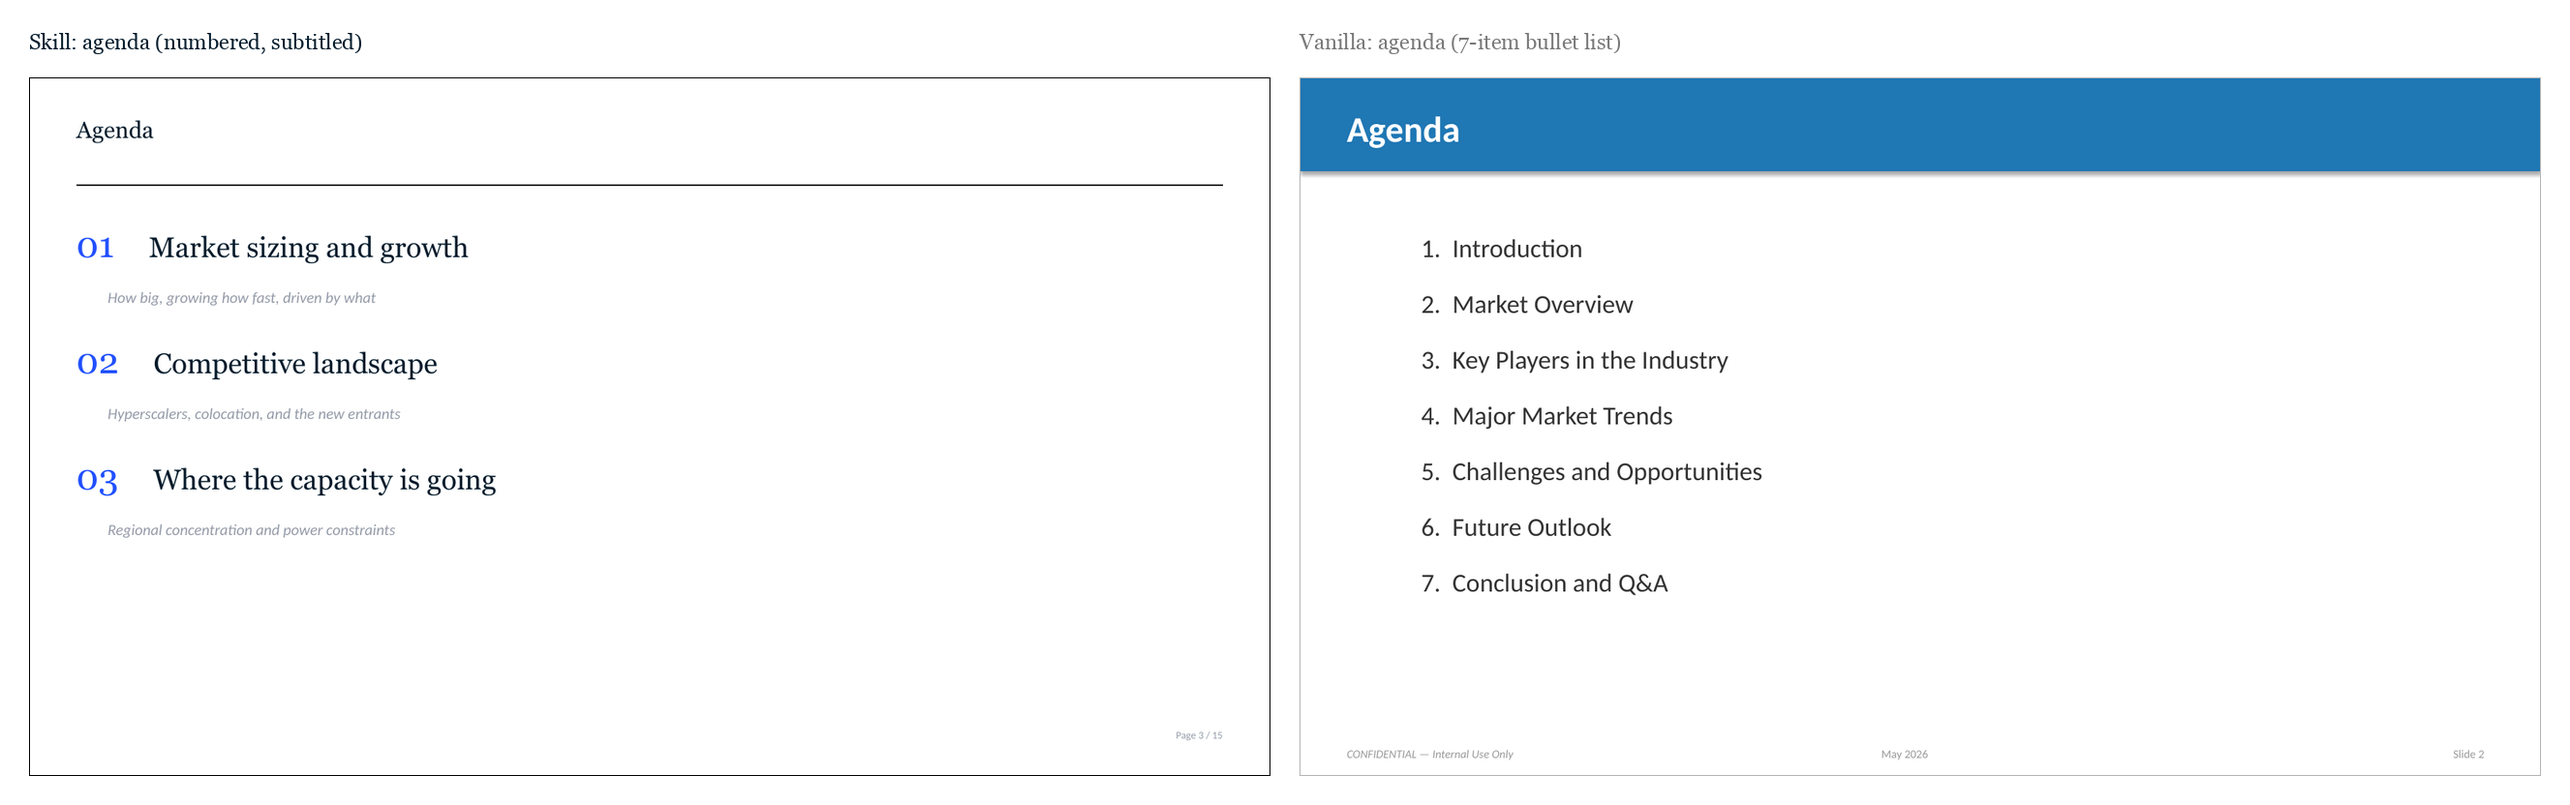
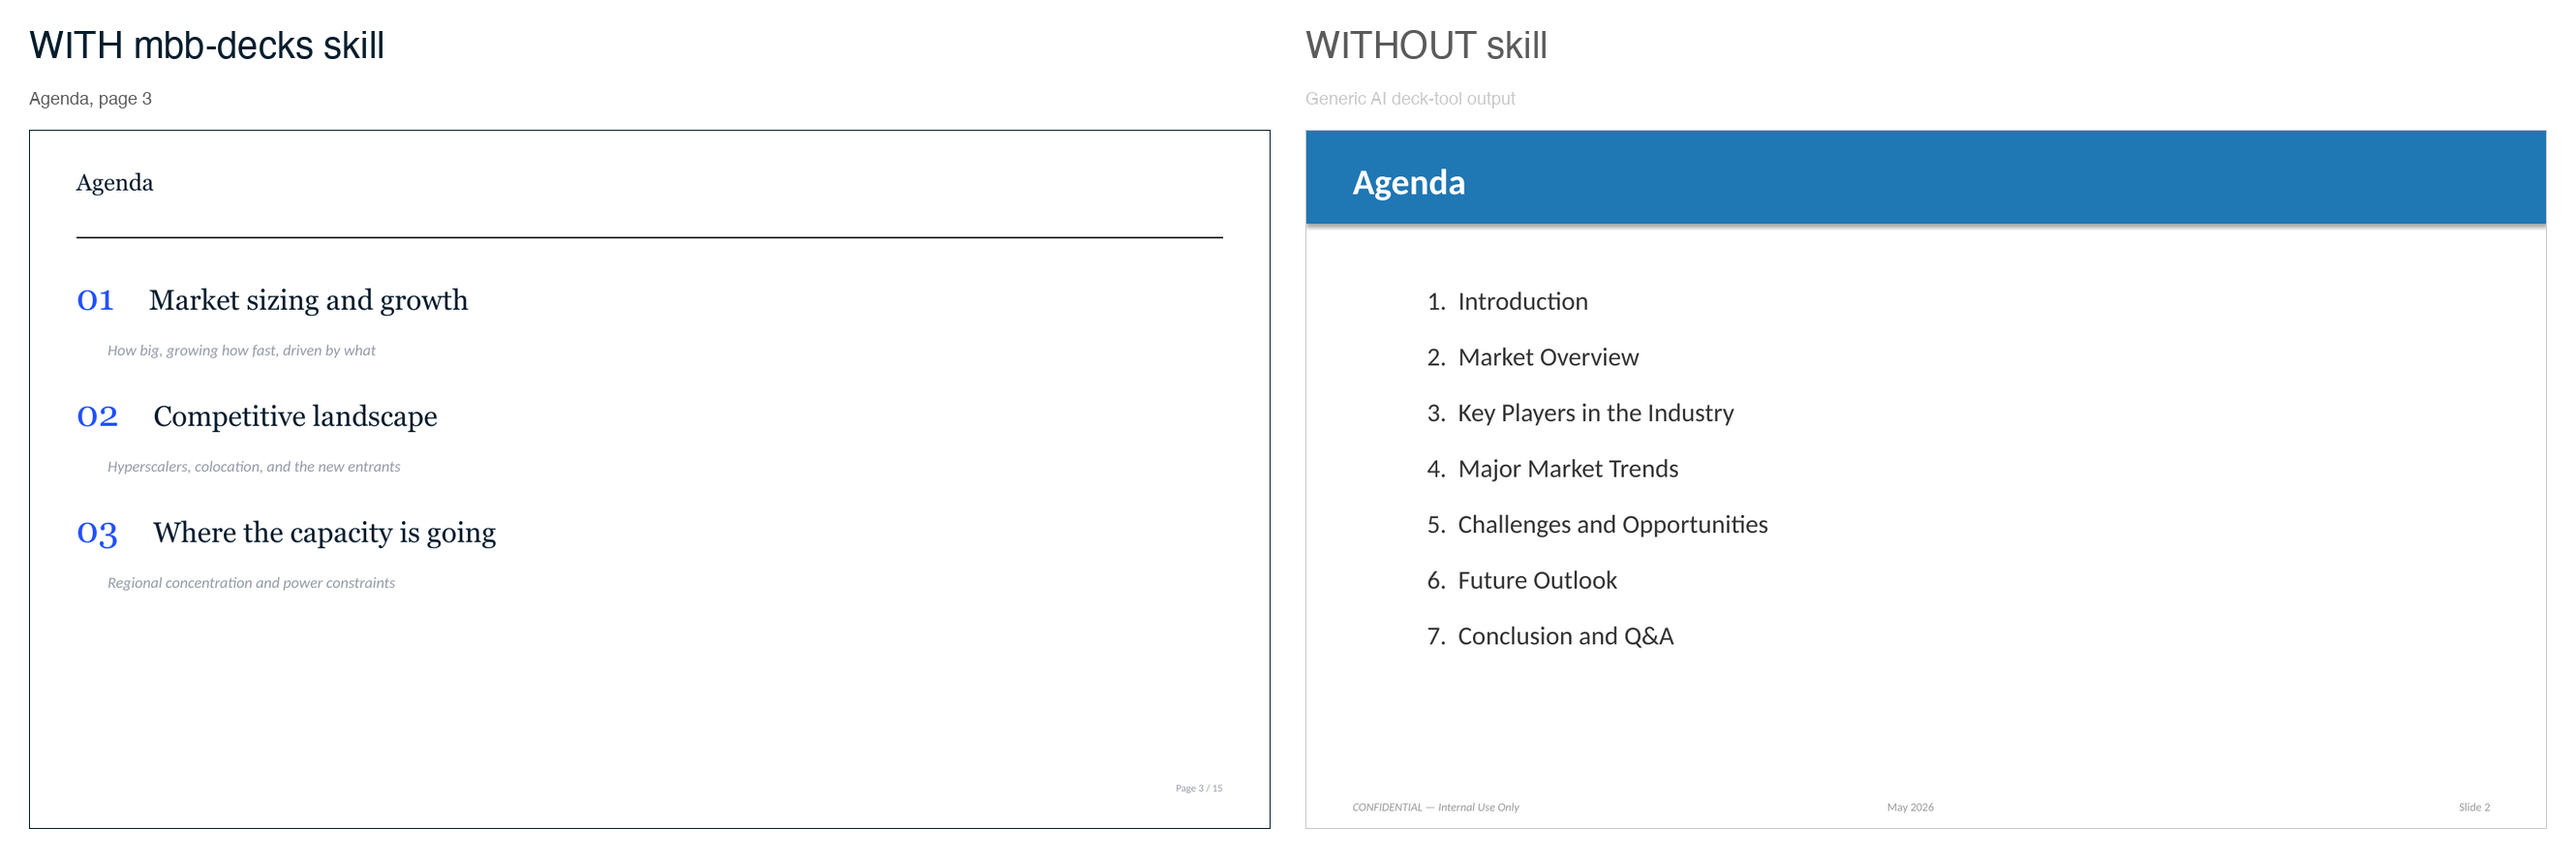
Make WITH-vs-WITHOUT-skill framing explicit on comparison images
Bake bold 'WITH mbb-decks skill' (navy) and 'WITHOUT skill' (grey)
labels into the four comparison PNGs so the framing reads clearly
when shared on X, HN, or Reddit where surrounding context is stripped.
Skill-side images get a navy border, vanilla-side gets a light-grey
border. Update the top-level README header to lead with 'With skill
vs without skill' so first-time visitors see the value proposition
before scrolling.

diff --git a/README.md b/README.md
@@ -2,23 +2,15 @@
 
 > Generate MBB-style consulting decks with Claude. Action-title storylines, pyramid-principle structure, MECE bullets, navy-and-white editorial visual system. Real `.pptx` output, not Markdown.
 
-## Side-by-side: skill output vs default AI-deck output
+## With skill vs without skill
 
-Same topic (a data center industry report), same author, same approximate length. Left is what this skill produces. Right is what a generic AI deck tool produces.
-
-**Cover (page 1)**
+Same prompt, same topic (a data center industry report), same author. **Left** is what Claude produces with this skill installed. **Right** is what Claude produces without it (the default AI-deck-tool aesthetic).
 
 ![Cover comparison](examples/data-center-landscape/compare-cover.png)
 
-**Agenda (page 3)**
-
 ![Agenda comparison](examples/data-center-landscape/compare-agenda.png)
 
-**Analytical content (page 11)**
-
 ![Content comparison](examples/data-center-landscape/compare-content.png)
-
-**Closing detail (page 15)**
 
 ![Closing comparison](examples/data-center-landscape/compare-closing.png)
 
